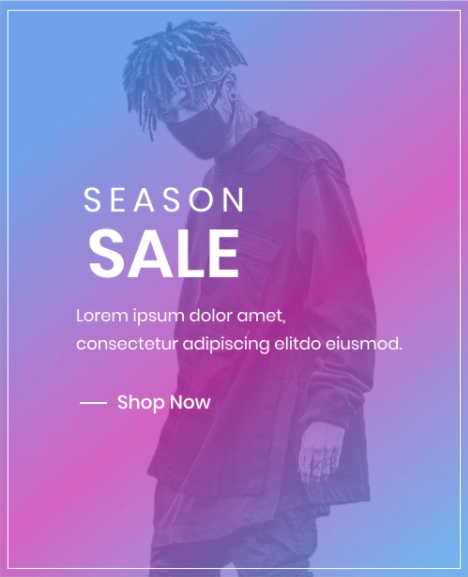
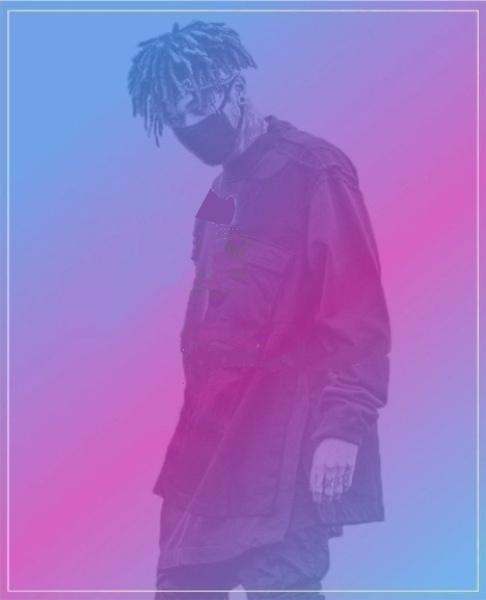
final revision done

diff --git a/css/home.css b/css/home.css
@@ -210,7 +210,8 @@
 }
 .feature-content-one button,
 .feature-content-two button,
-.feature-content-three button{
+.feature-content-three button,
+.feature-content-four button{
   background: transparent;
   border: none;
   color: #789ED6;
@@ -219,7 +220,8 @@
 }
 .feature-content-one button::before,
 .feature-content-two button::before,
-.feature-content-three button::before{
+.feature-content-three button::before,
+.feature-content-four button::before{
   content:"";
   display: inline-block;
   background: #789ED6;
@@ -248,10 +250,7 @@
 .feature-four{
   padding-top: 8rem;
 }
- .wrappage > a{
-  pointer-events: none!important;
-  cursor: default!important;
-} 
+
 
 
 .feature-right .total-sale{
@@ -273,11 +272,45 @@
   line-height:4rem;
 }
 .feature-area .total-sale p,
-.feature-left .total-sale p-{
+.feature-left .total-sale p{
   font-size:18px;
   font-weight:400;
   color:#000;
   line-height:2rem;
+}
+
+.feature-four{
+  position: relative;
+}
+.feature-content-four{
+  position: absolute;
+  left: 35%;
+  top: 40%;
+}
+.feature-content-four h4{
+    font-size: 50px;
+    color: #fff;
+    text-transform: uppercase;
+    font-weight: 500;
+}
+.feature-content-four h2{
+  font-size: 70px;
+  text-transform: uppercase;
+  font-weight: 600;
+  letter-spacing: 0.8px;
+  color: #fff;
+  margin-top: 0;
+}
+.feature-content-four p{
+  font-size:18px;
+  color: #fff;
+  max-width: 400px;
+}
+.feature-content-four button{
+  color: #fff;
+}
+.feature-content-four button::before{
+  background: #fff;
 }
   /*Feature Area*/
 
@@ -312,6 +345,69 @@
         bottom: 0px;
         left: 0px;
     }
+
+    /*Feature Content*/
+    .feature-one img,
+    .feature-two img,
+    .feature-three img,
+    .feature-four img{
+      width: 100%;
+    }
+    .feature-content-one,
+    .feature-content-two,
+    .feature-content-three{
+      position:static;
+    }
+    .feature-one img,
+    .feature-two img,
+    .feature-three img,
+    .feature-four img{
+      margin-bottom: 20px;
+    }
+    .feature-content-one h4, .feature-content-two h4, .feature-content-three h4{
+      font-size:16px;
+    }
+    .feature-content-one h2, .feature-content-two h2, .feature-content-three h2{
+      font-size:24px;
+      padding-right: 0;
+      line-height:2.5rem
+    }
+    
+
+  .feature-two img, .feature-three img, .feature-four img{
+    margin-left: 0;
+  }
+  .feature-three, .feature-four{
+    padding-top: 4rem;
+  }
+    .feature-left .total-sale {
+      padding-top: 80px;
+      padding-bottom: 0;
+      padding-left: 0;
+      text-align: center;
+  }
+  .feature-right .total-sale {
+    padding-top: 60px;
+    padding-bottom: 60px;
+    text-align: center;
+    padding-right: 0;
+  }
+  .feature-content-four {
+    position: absolute;
+    left: 12%;
+    top: 24%;
+  }
+  .feature-content-four h4 {
+    font-size:32px;
+  }
+  .feature-content-four h2 {
+    font-size:50px;
+  }
+  .feature-content-four p {
+    font-size:16px;
+    padding-right: 20px;
+  }
+    /*Feature Content*/
 }
 
 
@@ -342,6 +438,69 @@
         bottom: 0px;
         left: 0px;
     }
+    /*Feature Content*/
+    .feature-one img,
+    .feature-two img,
+    .feature-three img,
+    .feature-four img{
+      width: 100%;
+    }
+    .feature-content-one,
+    .feature-content-two,
+    .feature-content-three{
+      position:static;
+    }
+    .feature-one img,
+    .feature-two img,
+    .feature-three img,
+    .feature-four img{
+      margin-bottom: 20px;
+    }
+    .feature-content-one h4, .feature-content-two h4, .feature-content-three h4{
+      font-size:16px;
+    }
+    .feature-content-one h2, .feature-content-two h2, .feature-content-three h2{
+      font-size:24px;
+      padding-right: 0;
+      line-height:2.5rem
+    }
+    
+
+  .feature-two img, .feature-three img, .feature-four img{
+    margin-left: 0;
+  }
+  .feature-three, .feature-four{
+    padding-top: 4rem;
+  }
+    .feature-left .total-sale {
+      padding-top: 80px;
+      padding-bottom: 0;
+      padding-left: 0;
+      text-align: center;
+  }
+  .feature-right .total-sale {
+    padding-top: 60px;
+    padding-bottom: 60px;
+    text-align: center;
+    padding-right: 0;
+  }
+  .feature-content-four {
+    position: absolute;
+    left: 12%;
+    top: 40%;
+  }
+  .feature-content-four h4 {
+    font-size:36px;
+  }
+  .feature-content-four h2 {
+    font-size:55px;
+  }
+  .feature-content-four p {
+    font-size:16px;
+    padding-right: 20px;
+    line-height:2.8rem
+  }
+    /*Feature Content*/
 }
 @media (min-width:768px) and (max-width:991px){
 
@@ -349,7 +508,7 @@
         display: block;
     }
     .slider-info {
-        padding-top:12%;
+        padding-top:10%;
     }
     .rotate-info h1,
     .rotate-info p{
@@ -370,6 +529,18 @@
         bottom: 0px;
         left: 0px;
     }
+    .zoa-collection.pad .row{
+      display: flex;
+  }
+  .feature-content-one h4, .feature-content-two h4, .feature-content-three h4{
+    font-size:22px;
+  }
+  .feature-content-one h2, .feature-content-two h2, .feature-content-three h2{
+    font-size:32px;
+  }
+  .feature-content-three h2{
+    padding-right: 100px;
+  }
 }
 @media (min-width:992px) and (max-width:1199px){
 
@@ -402,7 +573,29 @@
         bottom: 20px;
         left: -100px;
     }
-    
+    .feature-content-one h2, .feature-content-two h2, .feature-content-three h2 {
+      font-size:32px;
+      padding-right: 0;
+  }
+  .feature-three img{
+    margin-left: 26%;
+  }
+  .feature-content-two h2{
+    padding-right: 100px;
+  }
+  .feature-content-four {
+    left: 30%;
+    top: 35%;
+  }
+  .feature-content-four h4 {
+    font-size: 40px;
+  }
+  .feature-content-four h2 {
+    font-size: 60px;
+  }
+  .feature-content-four p {
+    max-width:300px;
+  }
 }
 @media (min-width:1400px) and (max-width:1599px){
 
@@ -419,5 +612,16 @@
         bottom: 20px;
         left: -100px;
     }
+    .feature-content-one h2, .feature-content-two h2{
+      padding-right: 35px;
+      font-size: 32px;
+    }
+    .feature-content-three h2{
+      padding-right: 125px;
+      font-size: 30px;
+    }
+    .feature-content-four {
+      left: 30%;
+  }
     
 }

diff --git a/index.html b/index.html
@@ -683,6 +683,12 @@
                             </div>
                             <div class="feature-four">
                                 <img src="./img/season-sale.png" alt="zoa"  class="img-fluid">
+                                <div class="feature-content-four">
+                                    <h4>Season</h4>
+                                    <h2>Sale</h2>
+                                    <p>Lorem ipsum dolor sit amet consectetur adipisicing elit. Dolore at ducimus consequuntur excepturi quaerat nesciunt.</p>
+                                    <button>Shop Now</button>
+                                </div>
                             </div>
                         </div>
                     </div>
